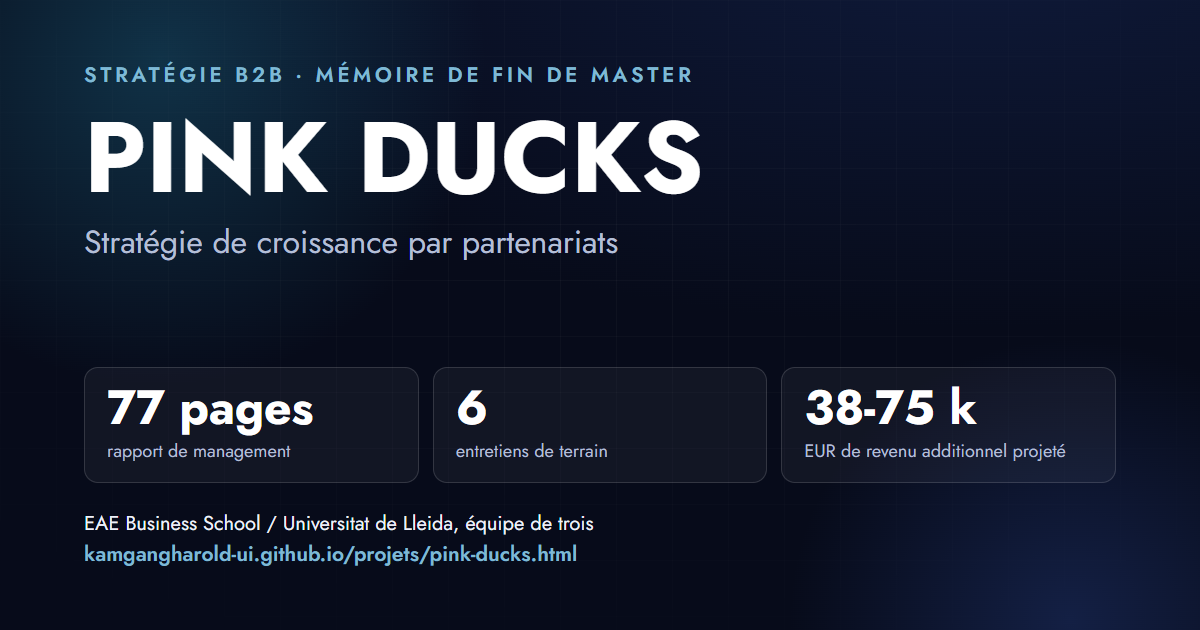
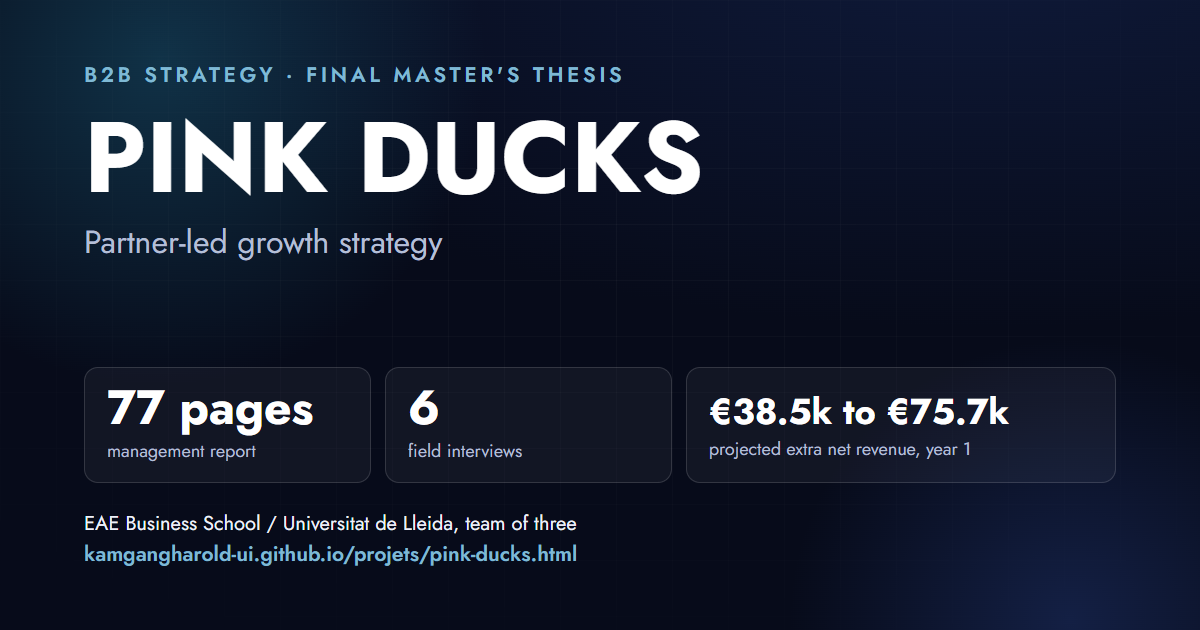
English default metadata and English share cards on every page; French kept for the language switch

diff --git a/index.html b/index.html
@@ -1,31 +1,31 @@
 <!DOCTYPE html>
-<html lang="fr" data-theme="auto">
+<html lang="fr" data-title-fr="Harold Kamgang · COO chez Tunora, ingénieur procédés" data-desc-fr="COO chez Tunora, ingénieur procédés, double diplôme MSc International Business et MBA. 19 mois sans accident du travail sur un site industriel de 70 personnes, 8 % de pertes en moins en 6 mois." data-theme="auto">
 <head>
 <meta charset="utf-8">
 <meta name="viewport" content="width=device-width, initial-scale=1, viewport-fit=cover">
-<title>Harold Kamgang · COO chez Tunora, ingénieur procédés</title>
-<meta name="description" content="COO chez Tunora, ingénieur procédés, double diplôme MSc International Business et MBA. 19 mois sans accident du travail sur un site industriel de 70 personnes, 8 % de pertes en moins en 6 mois.">
+<title>Harold Kamgang · COO at Tunora, process engineer</title>
+<meta name="description" content="COO at Tunora, process engineer, dual degree MSc in International Business and MBA. 19 months without a workplace accident on a 70-person industrial site, 8% fewer losses in 6 months.">
 <link rel="canonical" href="https://kamgangharold-ui.github.io/">
 <meta name="author" content="Harold Kamgang">
 <meta name="theme-color" media="(prefers-color-scheme: light)" content="#FFFFFF">
 <meta name="theme-color" media="(prefers-color-scheme: dark)" content="#0A1128">
 
 <meta property="og:type" content="profile">
-<meta property="og:title" content="Harold Kamgang · COO chez Tunora, ingénieur procédés">
-<meta property="og:description" content="Opérations, procédés, business international. 19 mois sans accident du travail sur un site de 70 personnes.">
+<meta property="og:title" content="Harold Kamgang · COO at Tunora, process engineer">
+<meta property="og:description" content="Operations, process engineering, international business. 19 months without a workplace accident on a 70-person site.">
 <meta property="og:url" content="https://kamgangharold-ui.github.io/">
-<meta property="og:locale" content="fr_FR">
-<meta property="og:locale:alternate" content="en_GB">
+<meta property="og:locale" content="en_GB">
+<meta property="og:locale:alternate" content="fr_FR">
 <meta property="og:locale:alternate" content="es_ES">
 <meta property="og:locale:alternate" content="de_DE">
-<meta property="og:image" content="https://kamgangharold-ui.github.io/assets/img/og.png">
+<meta property="og:image" content="https://kamgangharold-ui.github.io/assets/img/og.png?v=20261106">
 <meta property="og:image:width" content="1200">
 <meta property="og:image:height" content="630">
-<meta property="og:image:alt" content="Harold Kamgang · COO chez Tunora, ingénieur procédés. 19 mois sans accident du travail, 8 % de pertes en moins, 40 % de temps de reporting en moins.">
+<meta property="og:image:alt" content="Harold Kamgang, COO at Tunora, process engineer. 19 months without a workplace accident, 8% less waste, 40% less reporting time.">
 <meta name="twitter:card" content="summary_large_image">
-<meta name="twitter:title" content="Harold Kamgang · COO chez Tunora, ingénieur procédés">
-<meta name="twitter:description" content="Opérations, procédés, business international. 19 mois sans accident du travail sur un site de 70 personnes.">
-<meta name="twitter:image" content="https://kamgangharold-ui.github.io/assets/img/og.png">
+<meta name="twitter:title" content="Harold Kamgang · COO at Tunora, process engineer">
+<meta name="twitter:description" content="Operations, process engineering, international business. 19 months without a workplace accident on a 70-person site.">
+<meta name="twitter:image" content="https://kamgangharold-ui.github.io/assets/img/og.png?v=20261106">
 
 <link rel="alternate" hreflang="fr" href="https://kamgangharold-ui.github.io/">
 <link rel="alternate" hreflang="en" href="https://kamgangharold-ui.github.io/?lang=en">
@@ -48,7 +48,7 @@
   "url": "https://kamgangharold-ui.github.io/",
   "jobTitle": "COO",
   "worksFor": { "@type": "Organization", "name": "Tunora", "url": "https://tunora.app/" },
-  "description": "COO chez Tunora, ingénieur procédés, double diplôme MSc International Business et MBA.",
+  "description": "COO at Tunora, process engineer, dual degree MSc International Business and MBA.",
   "knowsLanguage": ["fr", "en", "de", "es"],
   "sameAs": ["https://www.linkedin.com/in/haroldkamgang"],
   "alumniOf": [
@@ -56,7 +56,7 @@
     { "@type": "CollegeOrUniversity", "name": "Universitat de Lleida" },
     { "@type": "CollegeOrUniversity", "name": "Université Catholique Saint-Jérôme" }
   ],
-  "knowsAbout": ["ISO 9001:2015", "HACCP", "Évaluation des risques", "Amélioration continue", "Lean 5S", "Power BI", "Gestion des opérations", "Business international"]
+  "knowsAbout": ["ISO 9001:2015", "HACCP", "Risk assessment", "Continuous improvement", "Lean 5S", "Power BI", "Operations management", "International business"]
 }
 </script>
 </head>

diff --git a/projets/compostage-brulerie-moderne.html b/projets/compostage-brulerie-moderne.html
@@ -1,25 +1,26 @@
 <!DOCTYPE html>
-<html lang="fr" data-theme="auto" data-i18n-path="i18n/" data-i18n-prefix="cm.">
+<html lang="fr" data-title-fr="Compostage : valoriser les déchets d'une torréfaction de café | Harold Kamgang" data-desc-fr="Rapport de stage à la Brûlerie Moderne : 2 794 kg de déchets non valorisés par an, test de compostage sur six récipients, étude économique chiffrant 30 000 FCFA de marge par tonne." data-theme="auto" data-i18n-path="i18n/" data-i18n-prefix="cm.">
 <head>
 <meta charset="utf-8">
 <meta name="viewport" content="width=device-width, initial-scale=1, viewport-fit=cover">
-<title>Compostage : valoriser les déchets d'une torréfaction de café | Harold Kamgang</title>
-<meta name="description" content="Rapport de stage à la Brûlerie Moderne : 2 794 kg de déchets non valorisés par an, test de compostage sur six récipients, étude économique chiffrant 30 000 FCFA de marge par tonne.">
+<title>Composting: recovering value from a coffee roaster's waste | Harold Kamgang</title>
+<meta name="description" content="Internship report at Brûlerie Moderne: 2,794 kg of unrecovered waste per year, a composting trial across six containers, an economic case costing out a 30,000 FCFA margin per tonne.">
 <link rel="canonical" href="https://kamgangharold-ui.github.io/projets/compostage-brulerie-moderne.html">
 <meta name="theme-color" media="(prefers-color-scheme: light)" content="#FFFFFF">
 <meta name="theme-color" media="(prefers-color-scheme: dark)" content="#0A1128">
 
 <meta property="og:type" content="article">
-<meta property="og:title" content="Compostage : valoriser les déchets d'une torréfaction de café">
-<meta property="og:description" content="2 794 kg de déchets non valorisés par an, test de compostage sur six récipients, 30 000 FCFA de marge par tonne.">
+<meta property="og:title" content="Composting: recovering value from a coffee roaster's waste">
+<meta property="og:description" content="Internship report at Brûlerie Moderne: 2,794 kg of unrecovered waste per year, a composting trial across six containers, an economic case costing out a 30,000 FCFA margin per tonne.">
 <meta property="og:url" content="https://kamgangharold-ui.github.io/projets/compostage-brulerie-moderne.html">
-<meta property="og:image" content="https://kamgangharold-ui.github.io/assets/img/og.png">
+<meta property="og:image" content="https://kamgangharold-ui.github.io/assets/img/og.png?v=20261106">
 <meta property="og:image:width" content="1200">
 <meta property="og:image:height" content="630">
+<meta property="og:image:alt" content="Harold Kamgang, COO at Tunora, process engineer. Operations, quality and international business.">
 <meta name="twitter:card" content="summary_large_image">
-<meta name="twitter:title" content="Compostage : valoriser les déchets d'une torréfaction de café">
-<meta name="twitter:description" content="2 794 kg de déchets non valorisés par an, test de compostage sur six récipients, 30 000 FCFA de marge par tonne.">
-<meta name="twitter:image" content="https://kamgangharold-ui.github.io/assets/img/og.png">
+<meta name="twitter:title" content="Composting: recovering value from a coffee roaster's waste">
+<meta name="twitter:description" content="Internship report at Brûlerie Moderne: 2,794 kg of unrecovered waste per year, a composting trial across six containers, an economic case costing out a 30,000 FCFA margin per tonne.">
+<meta name="twitter:image" content="https://kamgangharold-ui.github.io/assets/img/og.png?v=20261106">
 
 <link rel="icon" href="../assets/img/favicon.svg" type="image/svg+xml">
 <link rel="preload" href="../assets/fonts/jost-latin.woff2" as="font" type="font/woff2" crossorigin>

diff --git a/projets/pink-ducks.html b/projets/pink-ducks.html
@@ -1,25 +1,26 @@
 <!DOCTYPE html>
-<html lang="fr" data-theme="auto" data-i18n-path="i18n/" data-i18n-prefix="p.">
+<html lang="fr" data-title-fr="Pink Ducks : stratégie de croissance par partenariats | Harold Kamgang" data-desc-fr="Mémoire de fin de Master : stratégie de distribution B2B pour un opérateur de tours à vélo électrique à Barcelone. Segmentation de partenaires, trois modèles d'incitation, pilote 90 jours, application vocale IA." data-theme="auto" data-i18n-path="i18n/" data-i18n-prefix="p.">
 <head>
 <meta charset="utf-8">
 <meta name="viewport" content="width=device-width, initial-scale=1, viewport-fit=cover">
-<title>Pink Ducks : stratégie de croissance par partenariats | Harold Kamgang</title>
-<meta name="description" content="Mémoire de fin de Master : stratégie de distribution B2B pour un opérateur de tours à vélo électrique à Barcelone. Segmentation de partenaires, trois modèles d'incitation, pilote 90 jours, application vocale IA.">
+<title>Pink Ducks: partner-led growth strategy | Harold Kamgang</title>
+<meta name="description" content="Final Master's thesis: a B2B distribution strategy for an electric bike tour operator in Barcelona. Partner segmentation, three incentive models, a 90-day pilot, and an AI voice app.">
 <link rel="canonical" href="https://kamgangharold-ui.github.io/projets/pink-ducks.html">
 <meta name="theme-color" media="(prefers-color-scheme: light)" content="#FFFFFF">
 <meta name="theme-color" media="(prefers-color-scheme: dark)" content="#0A1128">
 
 <meta property="og:type" content="article">
-<meta property="og:title" content="Pink Ducks : stratégie de croissance par partenariats">
-<meta property="og:description" content="Mémoire de fin de Master, EAE Business School / Universitat de Lleida. 77 pages, 6 entretiens de terrain, 9 sources de marché.">
+<meta property="og:title" content="Pink Ducks: partner-led growth strategy">
+<meta property="og:description" content="Final Master's thesis: a B2B distribution strategy for an electric bike tour operator in Barcelona. Partner segmentation, three incentive models, a 90-day pilot, and an AI voice app.">
 <meta property="og:url" content="https://kamgangharold-ui.github.io/projets/pink-ducks.html">
-<meta property="og:image" content="https://kamgangharold-ui.github.io/assets/img/og-pink-ducks.png">
+<meta property="og:image" content="https://kamgangharold-ui.github.io/assets/img/og-pink-ducks.png?v=20261106">
 <meta property="og:image:width" content="1200">
 <meta property="og:image:height" content="630">
+<meta property="og:image:alt" content="Pink Ducks: partner-led growth strategy. Master's thesis, 77 pages, six field interviews.">
 <meta name="twitter:card" content="summary_large_image">
-<meta name="twitter:title" content="Pink Ducks : stratégie de croissance par partenariats">
-<meta name="twitter:description" content="Mémoire de fin de Master, EAE Business School / Universitat de Lleida. 77 pages, 6 entretiens de terrain, 9 sources de marché.">
-<meta name="twitter:image" content="https://kamgangharold-ui.github.io/assets/img/og-pink-ducks.png">
+<meta name="twitter:title" content="Pink Ducks: partner-led growth strategy">
+<meta name="twitter:description" content="Final Master's thesis: a B2B distribution strategy for an electric bike tour operator in Barcelona. Partner segmentation, three incentive models, a 90-day pilot, and an AI voice app.">
+<meta name="twitter:image" content="https://kamgangharold-ui.github.io/assets/img/og-pink-ducks.png?v=20261106">
 
 <link rel="icon" href="../assets/img/favicon.svg" type="image/svg+xml">
 <link rel="preload" href="../assets/fonts/jost-latin.woff2" as="font" type="font/woff2" crossorigin>

diff --git a/projets/pyrolyse-dechets-bois.html b/projets/pyrolyse-dechets-bois.html
@@ -1,25 +1,26 @@
 <!DOCTYPE html>
-<html lang="fr" data-theme="auto" data-i18n-path="i18n/" data-i18n-prefix="py.">
+<html lang="fr" data-title-fr="Pyrolyse : valoriser les déchets de bois en biochar | Harold Kamgang" data-desc-fr="Projet tutoré en binôme : modélisation cinétique de la pyrolyse du bois par deux méthodes (Kissinger-Akahira-Sunose, Miura-Maki), régression R² = 0,975, conception d'un réacteur en deux parties." data-theme="auto" data-i18n-path="i18n/" data-i18n-prefix="py.">
 <head>
 <meta charset="utf-8">
 <meta name="viewport" content="width=device-width, initial-scale=1, viewport-fit=cover">
-<title>Pyrolyse : valoriser les déchets de bois en biochar | Harold Kamgang</title>
-<meta name="description" content="Projet tutoré en binôme : modélisation cinétique de la pyrolyse du bois par deux méthodes (Kissinger-Akahira-Sunose, Miura-Maki), régression R² = 0,975, conception d'un réacteur en deux parties.">
+<title>Pyrolysis: turning wood waste into biochar | Harold Kamgang</title>
+<meta name="description" content="Paired supervised project: kinetic modelling of wood pyrolysis using two methods (Kissinger-Akahira-Sunose, Miura-Maki), R² = 0.975 regression, design of a two-part reactor.">
 <link rel="canonical" href="https://kamgangharold-ui.github.io/projets/pyrolyse-dechets-bois.html">
 <meta name="theme-color" media="(prefers-color-scheme: light)" content="#FFFFFF">
 <meta name="theme-color" media="(prefers-color-scheme: dark)" content="#0A1128">
 
 <meta property="og:type" content="article">
-<meta property="og:title" content="Pyrolyse : valoriser les déchets de bois en biochar">
-<meta property="og:description" content="Modélisation cinétique par deux méthodes, régression R² = 0,975, conception d'un réacteur en deux parties. Projet en binôme.">
+<meta property="og:title" content="Pyrolysis: turning wood waste into biochar">
+<meta property="og:description" content="Paired supervised project: kinetic modelling of wood pyrolysis using two methods (Kissinger-Akahira-Sunose, Miura-Maki), R² = 0.975 regression, design of a two-part reactor.">
 <meta property="og:url" content="https://kamgangharold-ui.github.io/projets/pyrolyse-dechets-bois.html">
-<meta property="og:image" content="https://kamgangharold-ui.github.io/assets/img/og.png">
+<meta property="og:image" content="https://kamgangharold-ui.github.io/assets/img/og.png?v=20261106">
 <meta property="og:image:width" content="1200">
 <meta property="og:image:height" content="630">
+<meta property="og:image:alt" content="Harold Kamgang, COO at Tunora, process engineer. Operations, quality and international business.">
 <meta name="twitter:card" content="summary_large_image">
-<meta name="twitter:title" content="Pyrolyse : valoriser les déchets de bois en biochar">
-<meta name="twitter:description" content="Modélisation cinétique par deux méthodes, régression R² = 0,975, conception d'un réacteur en deux parties. Projet en binôme.">
-<meta name="twitter:image" content="https://kamgangharold-ui.github.io/assets/img/og.png">
+<meta name="twitter:title" content="Pyrolysis: turning wood waste into biochar">
+<meta name="twitter:description" content="Paired supervised project: kinetic modelling of wood pyrolysis using two methods (Kissinger-Akahira-Sunose, Miura-Maki), R² = 0.975 regression, design of a two-part reactor.">
+<meta name="twitter:image" content="https://kamgangharold-ui.github.io/assets/img/og.png?v=20261106">
 
 <link rel="icon" href="../assets/img/favicon.svg" type="image/svg+xml">
 <link rel="preload" href="../assets/fonts/jost-latin.woff2" as="font" type="font/woff2" crossorigin>

diff --git a/projets/parcours-academique.html b/projets/parcours-academique.html
@@ -1,25 +1,26 @@
 <!DOCTYPE html>
-<html lang="fr" data-theme="auto" data-i18n-path="i18n/" data-i18n-prefix="pa.">
+<html lang="fr" data-title-fr="Parcours d'ingénieur : cinq ans, cinq travaux de terrain | Harold Kamgang" data-desc-fr="Les cinq travaux du cursus d'ingénieur génie des procédés : centrale thermique DPDC, pesticide naturel NKUI, compostage de déchets de café, pyrolyse de déchets de bois, eaux huileuses de Kribi." data-theme="auto" data-i18n-path="i18n/" data-i18n-prefix="pa.">
 <head>
 <meta charset="utf-8">
 <meta name="viewport" content="width=device-width, initial-scale=1, viewport-fit=cover">
-<title>Parcours d'ingénieur : cinq ans, cinq travaux de terrain | Harold Kamgang</title>
-<meta name="description" content="Les cinq travaux du cursus d'ingénieur génie des procédés : centrale thermique DPDC, pesticide naturel NKUI, compostage de déchets de café, pyrolyse de déchets de bois, eaux huileuses de Kribi.">
+<title>Engineering path: five years, five field projects | Harold Kamgang</title>
+<meta name="description" content="The five projects of a process engineering degree: Dibamba thermal plant, natural NKUI pesticide, coffee-waste composting, wood-waste pyrolysis, Kribi oily water.">
 <link rel="canonical" href="https://kamgangharold-ui.github.io/projets/parcours-academique.html">
 <meta name="theme-color" media="(prefers-color-scheme: light)" content="#FFFFFF">
 <meta name="theme-color" media="(prefers-color-scheme: dark)" content="#0A1128">
 
 <meta property="og:type" content="article">
-<meta property="og:title" content="Parcours d'ingénieur : cinq ans, cinq travaux de terrain">
-<meta property="og:description" content="Quatre travaux sur cinq portent sur le même sujet : transformer un déchet industriel en ressource, ou l'empêcher d'être produit.">
+<meta property="og:title" content="Engineering path: five years, five field projects">
+<meta property="og:description" content="The five projects of a process engineering degree: Dibamba thermal plant, natural NKUI pesticide, coffee-waste composting, wood-waste pyrolysis, Kribi oily water.">
 <meta property="og:url" content="https://kamgangharold-ui.github.io/projets/parcours-academique.html">
-<meta property="og:image" content="https://kamgangharold-ui.github.io/assets/img/og.png">
+<meta property="og:image" content="https://kamgangharold-ui.github.io/assets/img/og.png?v=20261106">
 <meta property="og:image:width" content="1200">
 <meta property="og:image:height" content="630">
+<meta property="og:image:alt" content="Harold Kamgang, COO at Tunora, process engineer. Operations, quality and international business.">
 <meta name="twitter:card" content="summary_large_image">
-<meta name="twitter:title" content="Parcours d'ingénieur : cinq ans, cinq travaux de terrain">
-<meta name="twitter:description" content="Quatre travaux sur cinq portent sur le même sujet : transformer un déchet industriel en ressource, ou l'empêcher d'être produit.">
-<meta name="twitter:image" content="https://kamgangharold-ui.github.io/assets/img/og.png">
+<meta name="twitter:title" content="Engineering path: five years, five field projects">
+<meta name="twitter:description" content="The five projects of a process engineering degree: Dibamba thermal plant, natural NKUI pesticide, coffee-waste composting, wood-waste pyrolysis, Kribi oily water.">
+<meta name="twitter:image" content="https://kamgangharold-ui.github.io/assets/img/og.png?v=20261106">
 
 <link rel="icon" href="../assets/img/favicon.svg" type="image/svg+xml">
 <link rel="preload" href="../assets/fonts/jost-latin.woff2" as="font" type="font/woff2" crossorigin>

diff --git a/projets/kribi-eaux-huileuses.html b/projets/kribi-eaux-huileuses.html
@@ -1,25 +1,26 @@
 <!DOCTYPE html>
-<html lang="fr" data-theme="auto" data-i18n-path="i18n/" data-i18n-prefix="k.">
+<html lang="fr" data-title-fr="Kribi : réduction des rejets d'eaux huileuses | Harold Kamgang" data-desc-fr="Mémoire d'ingénieur à la centrale à gaz de 216 MW de Kribi : corrélation 0,92, diagramme de Pareto sur les fuites d'huile, Ishikawa sur l'unité de traitement, système de détection UV." data-theme="auto" data-i18n-path="i18n/" data-i18n-prefix="k.">
 <head>
 <meta charset="utf-8">
 <meta name="viewport" content="width=device-width, initial-scale=1, viewport-fit=cover">
-<title>Kribi : réduction des rejets d'eaux huileuses | Harold Kamgang</title>
-<meta name="description" content="Mémoire d'ingénieur à la centrale à gaz de 216 MW de Kribi : corrélation 0,92, diagramme de Pareto sur les fuites d'huile, Ishikawa sur l'unité de traitement, système de détection UV.">
+<title>Kribi: reducing oily-water discharge | Harold Kamgang</title>
+<meta name="description" content="Engineering thesis at Kribi's 216 MW gas power plant: 0.92 correlation, Pareto analysis of oil leaks, Ishikawa diagram on the treatment unit, UV detection system.">
 <link rel="canonical" href="https://kamgangharold-ui.github.io/projets/kribi-eaux-huileuses.html">
 <meta name="theme-color" media="(prefers-color-scheme: light)" content="#FFFFFF">
 <meta name="theme-color" media="(prefers-color-scheme: dark)" content="#0A1128">
 
 <meta property="og:type" content="article">
-<meta property="og:title" content="Kribi : réduction des rejets d'eaux huileuses">
-<meta property="og:description" content="Mémoire d'ingénieur, centrale à gaz de 216 MW. Corrélation 0,92, Pareto 20/80, Ishikawa, détection UV des fuites.">
+<meta property="og:title" content="Kribi: reducing oily-water discharge">
+<meta property="og:description" content="Engineering thesis at Kribi's 216 MW gas power plant: 0.92 correlation, Pareto analysis of oil leaks, Ishikawa diagram on the treatment unit, UV detection system.">
 <meta property="og:url" content="https://kamgangharold-ui.github.io/projets/kribi-eaux-huileuses.html">
-<meta property="og:image" content="https://kamgangharold-ui.github.io/assets/img/og.png">
+<meta property="og:image" content="https://kamgangharold-ui.github.io/assets/img/og.png?v=20261106">
 <meta property="og:image:width" content="1200">
 <meta property="og:image:height" content="630">
+<meta property="og:image:alt" content="Harold Kamgang, COO at Tunora, process engineer. Operations, quality and international business.">
 <meta name="twitter:card" content="summary_large_image">
-<meta name="twitter:title" content="Kribi : réduction des rejets d'eaux huileuses">
-<meta name="twitter:description" content="Mémoire d'ingénieur, centrale à gaz de 216 MW. Corrélation 0,92, Pareto 20/80, Ishikawa, détection UV des fuites.">
-<meta name="twitter:image" content="https://kamgangharold-ui.github.io/assets/img/og.png">
+<meta name="twitter:title" content="Kribi: reducing oily-water discharge">
+<meta name="twitter:description" content="Engineering thesis at Kribi's 216 MW gas power plant: 0.92 correlation, Pareto analysis of oil leaks, Ishikawa diagram on the treatment unit, UV detection system.">
+<meta name="twitter:image" content="https://kamgangharold-ui.github.io/assets/img/og.png?v=20261106">
 
 <link rel="icon" href="../assets/img/favicon.svg" type="image/svg+xml">
 <link rel="preload" href="../assets/fonts/jost-latin.woff2" as="font" type="font/woff2" crossorigin>

diff --git a/projets/barcelona-cycleguide.html b/projets/barcelona-cycleguide.html
@@ -1,25 +1,26 @@
 <!DOCTYPE html>
-<html lang="fr" data-theme="auto" data-i18n-path="i18n/" data-i18n-prefix="bc.">
+<html lang="fr" data-title-fr="Barcelona CycleGuide · application mobile vocale assistée par IA | Harold Kamgang" data-desc-fr="Conception et développement assistés par IA d'une application mobile vocale et géolocalisée : React Native, Firebase, moteur de géorepérage sur mesure, IA multilingue." data-theme="auto" data-i18n-path="i18n/" data-i18n-prefix="bc.">
 <head>
 <meta charset="utf-8">
 <meta name="viewport" content="width=device-width, initial-scale=1, viewport-fit=cover">
-<title>Barcelona CycleGuide · application mobile vocale assistée par IA | Harold Kamgang</title>
-<meta name="description" content="Conception et développement assistés par IA d'une application mobile vocale et géolocalisée : React Native, Firebase, moteur de géorepérage sur mesure, IA multilingue.">
+<title>Barcelona CycleGuide: AI-powered voice mobile app | Harold Kamgang</title>
+<meta name="description" content="AI-assisted design and development of a voice-first, location-aware mobile app: React Native, Firebase, custom geofencing engine, multilingual AI.">
 <link rel="canonical" href="https://kamgangharold-ui.github.io/projets/barcelona-cycleguide.html">
 <meta name="theme-color" media="(prefers-color-scheme: light)" content="#FFFFFF">
 <meta name="theme-color" media="(prefers-color-scheme: dark)" content="#0A1128">
 
 <meta property="og:type" content="article">
-<meta property="og:title" content="Barcelona CycleGuide · application mobile vocale assistée par IA">
-<meta property="og:description" content="React Native, Firebase, géorepérage maison, IA multilingue. Développement assisté par IA.">
+<meta property="og:title" content="Barcelona CycleGuide: AI-powered voice mobile app">
+<meta property="og:description" content="AI-assisted design and development of a voice-first, location-aware mobile app: React Native, Firebase, custom geofencing engine, multilingual AI.">
 <meta property="og:url" content="https://kamgangharold-ui.github.io/projets/barcelona-cycleguide.html">
-<meta property="og:image" content="https://kamgangharold-ui.github.io/assets/img/og.png">
+<meta property="og:image" content="https://kamgangharold-ui.github.io/assets/img/og.png?v=20261106">
 <meta property="og:image:width" content="1200">
 <meta property="og:image:height" content="630">
+<meta property="og:image:alt" content="Harold Kamgang, COO at Tunora, process engineer. Operations, quality and international business.">
 <meta name="twitter:card" content="summary_large_image">
-<meta name="twitter:title" content="Barcelona CycleGuide · application mobile vocale assistée par IA">
-<meta name="twitter:description" content="React Native, Firebase, géorepérage maison, IA multilingue. Développement assisté par IA.">
-<meta name="twitter:image" content="https://kamgangharold-ui.github.io/assets/img/og.png">
+<meta name="twitter:title" content="Barcelona CycleGuide: AI-powered voice mobile app">
+<meta name="twitter:description" content="AI-assisted design and development of a voice-first, location-aware mobile app: React Native, Firebase, custom geofencing engine, multilingual AI.">
+<meta name="twitter:image" content="https://kamgangharold-ui.github.io/assets/img/og.png?v=20261106">
 
 <link rel="icon" href="../assets/img/favicon.svg" type="image/svg+xml">
 <link rel="preload" href="../assets/fonts/jost-latin.woff2" as="font" type="font/woff2" crossorigin>

diff --git a/assets/js/i18n.js b/assets/js/i18n.js
@@ -29,9 +29,10 @@
   var titleKey = metaPrefix + "meta.title";
   var descKey = metaPrefix + "meta.desc";
 
-  base[titleKey] = document.title;
+  // Les balises par défaut (partage, moteurs de recherche) sont en anglais ; le français vient des attributs data-*.
+  base[titleKey] = document.documentElement.dataset.titleFr || document.title;
   var metaDesc = document.querySelector('meta[name="description"]');
-  base[descKey] = metaDesc ? metaDesc.content : "";
+  base[descKey] = document.documentElement.dataset.descFr || (metaDesc ? metaDesc.content : "");
 
   function paint(lang) {
     var d = dict[lang];
@@ -108,7 +109,7 @@
   // Le français doit passer par paint() lui aussi : c'est là que la préférence
   // est enregistrée. Sans ça, un choix « français » n'était jamais mémorisé et
   // la page repassait dans la langue du navigateur au rechargement suivant.
-  load(wanted || "fr");
+  load(wanted || "en");   // langue du navigateur non prise en charge : anglais
 
   // ── Menu déroulant à 4 langues ────────────────────────────────────────
   var btn = document.getElementById("lang");
